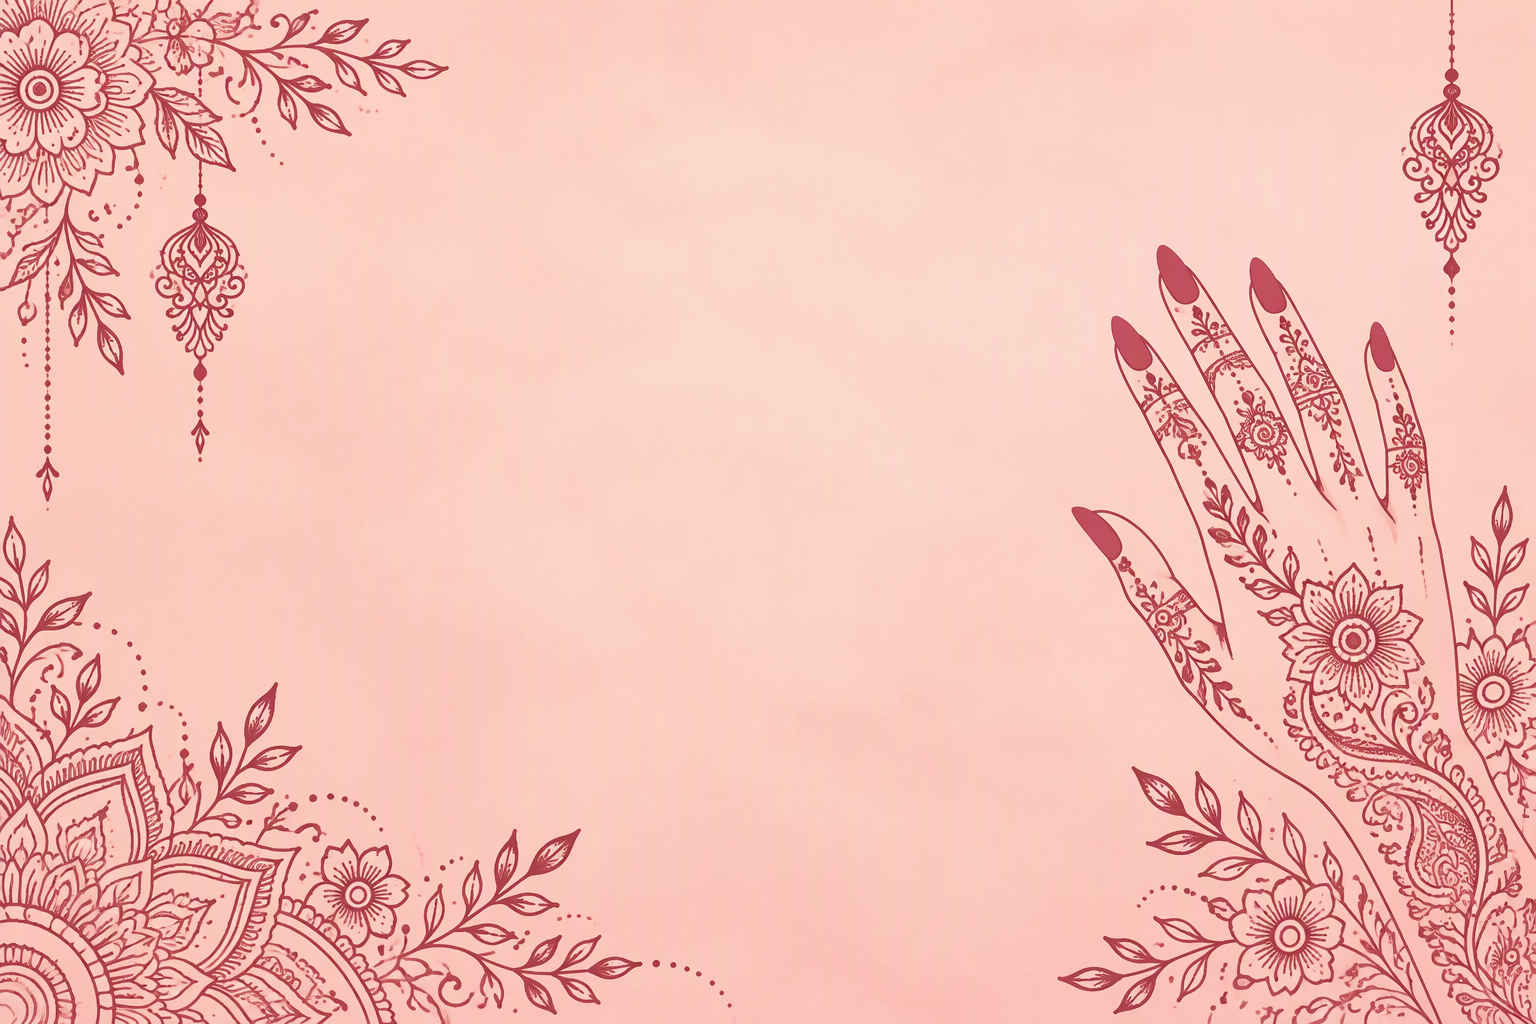
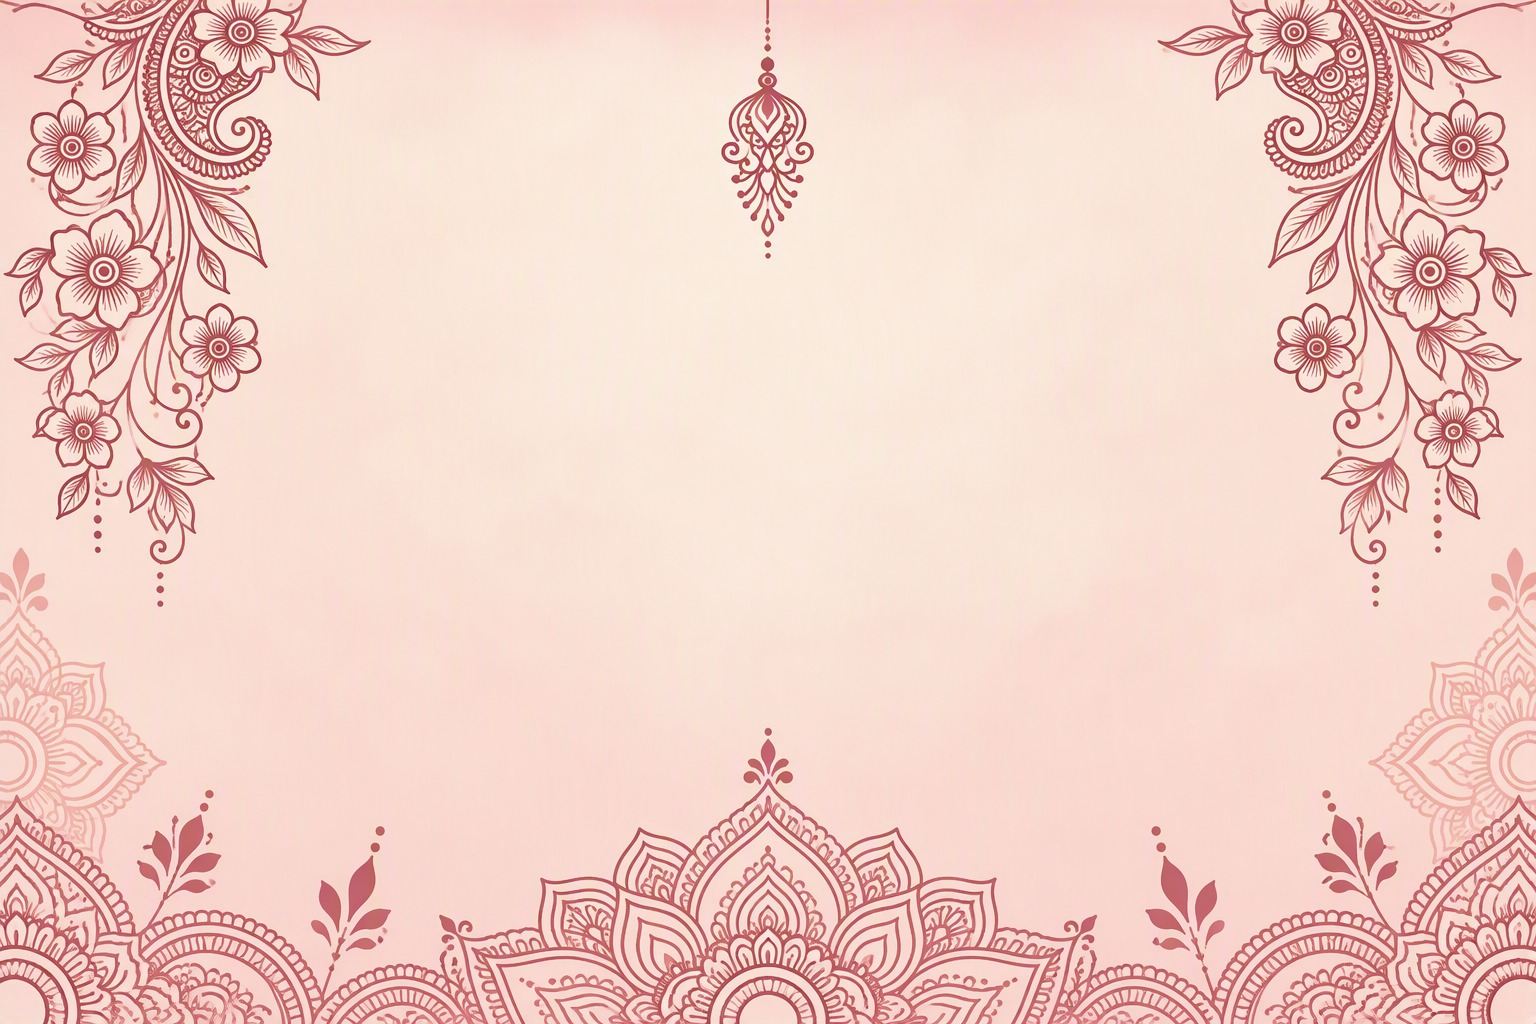
some changes

diff --git a/src/data/site.ts b/src/data/site.ts
@@ -65,24 +65,24 @@ export const GALLERY_PHOTOS: readonly GalleryPhoto[] = Object.freeze([
   buildLocalPhoto("moyen-04.webp", "moyen", "Motif de henne de niveau moyen"),
   buildLocalPhoto("moyen-05.webp", "moyen", "Motif de henne de niveau moyen"),
   buildLocalPhoto("moyen-06.webp", "moyen", "Motif de henne de niveau moyen"),
-  buildLocalPhoto("difficile-01.webp", "difficile", "Motif de henne difficile"),
-  buildLocalPhoto("difficile-02.webp", "difficile", "Motif de henne difficile"),
-  buildLocalPhoto("difficile-03.webp", "difficile", "Motif de henne difficile"),
-  buildLocalPhoto("difficile-04.webp", "difficile", "Motif de henne difficile"),
-  buildLocalPhoto("difficile-05.webp", "difficile", "Motif de henne difficile"),
-  buildLocalPhoto("difficile-06.webp", "difficile", "Motif de henne difficile"),
-  buildLocalPhoto("difficile-07.webp", "difficile", "Motif de henne difficile"),
-  buildLocalPhoto("difficile-08.webp", "difficile", "Motif de henne difficile"),
-  buildLocalPhoto("difficile-09.webp", "difficile", "Motif de henne difficile"),
-  buildLocalPhoto("difficile-10.webp", "difficile", "Motif de henne difficile"),
-  buildLocalPhoto("difficile-11.webp", "difficile", "Motif de henne difficile"),
-  buildLocalPhoto("difficile-12.webp", "difficile", "Motif de henne difficile"),
-  buildLocalPhoto("difficile-13.webp", "difficile", "Motif de henne difficile"),
-  buildLocalPhoto("difficile-14.webp", "difficile", "Motif de henne difficile"),
+  buildLocalPhoto("difficile-01.webp", "difficile", "Motif de henne chargé"),
+  buildLocalPhoto("difficile-02.webp", "difficile", "Motif de henne chargé"),
+  buildLocalPhoto("difficile-03.webp", "difficile", "Motif de henne chargé"),
+  buildLocalPhoto("difficile-04.webp", "difficile", "Motif de henne chargé"),
+  buildLocalPhoto("difficile-05.webp", "difficile", "Motif de henne chargé"),
+  buildLocalPhoto("difficile-06.webp", "difficile", "Motif de henne chargé"),
+  buildLocalPhoto("difficile-07.webp", "difficile", "Motif de henne chargé"),
+  buildLocalPhoto("difficile-08.webp", "difficile", "Motif de henne chargé"),
+  buildLocalPhoto("difficile-09.webp", "difficile", "Motif de henne chargé"),
+  buildLocalPhoto("difficile-10.webp", "difficile", "Motif de henne chargé"),
+  buildLocalPhoto("difficile-11.webp", "difficile", "Motif de henne chargé"),
+  buildLocalPhoto("difficile-12.webp", "difficile", "Motif de henne chargé"),
+  buildLocalPhoto("difficile-13.webp", "difficile", "Motif de henne chargé"),
+  buildLocalPhoto("difficile-14.webp", "difficile", "Motif de henne chargé"),
 ]);
 
 export const LEVEL_LABELS: Readonly<Record<Level, string>> = Object.freeze({
   simple: "Simple",
   moyen: "Moyen",
-  difficile: "Difficile",
+  difficile: "chargé",
 });
